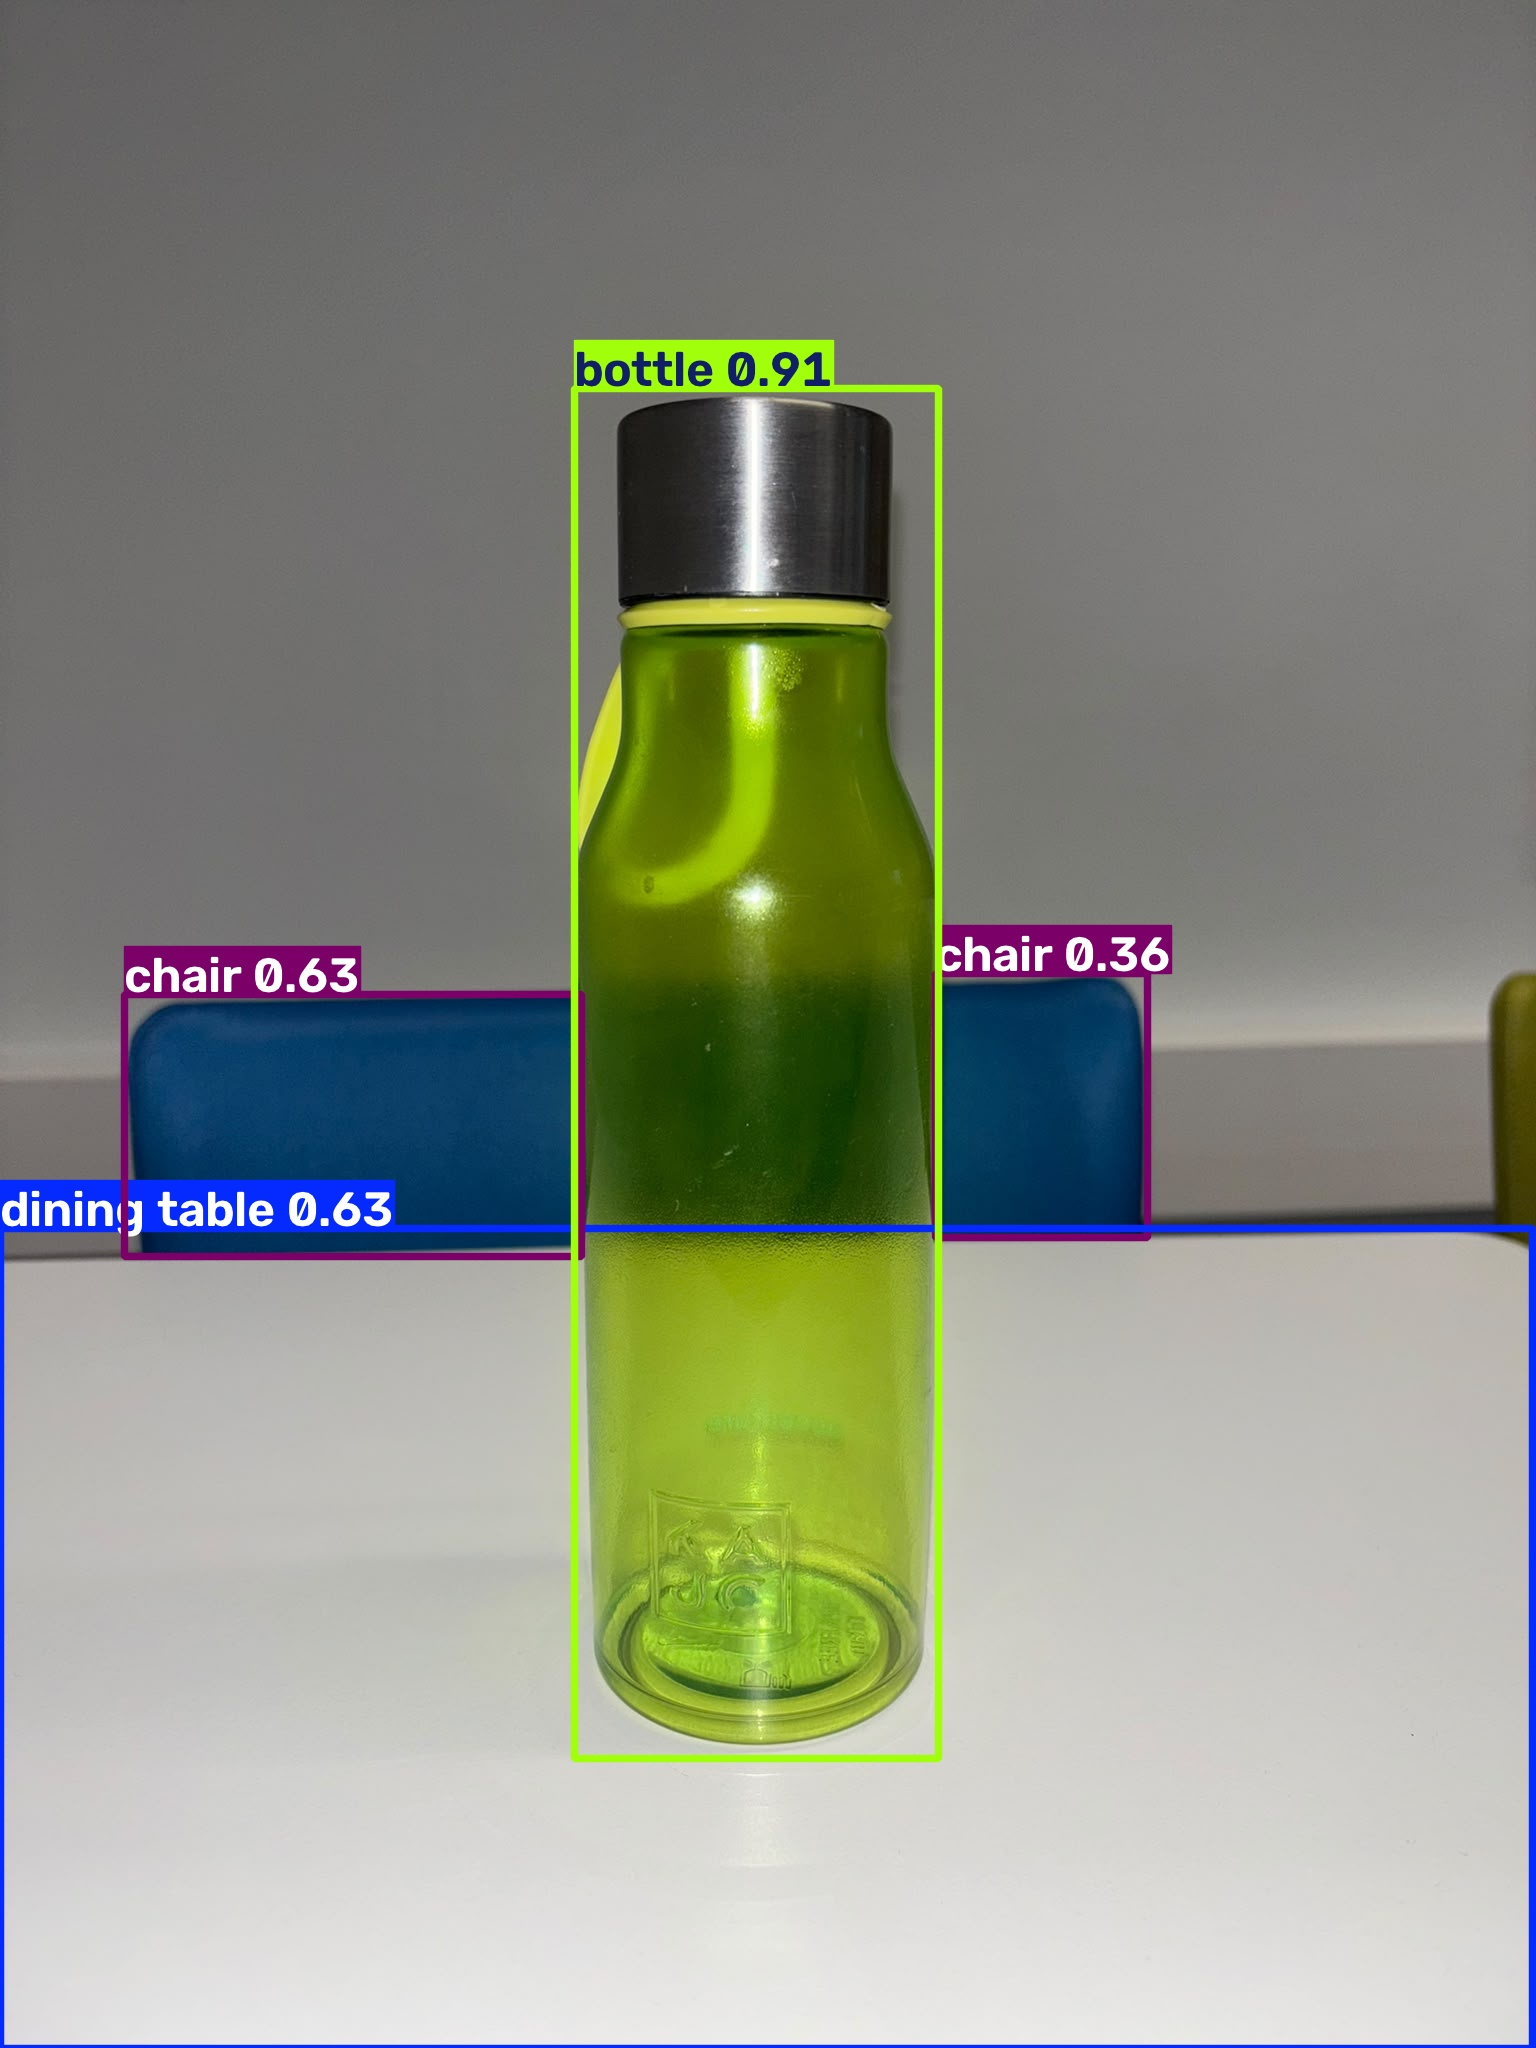
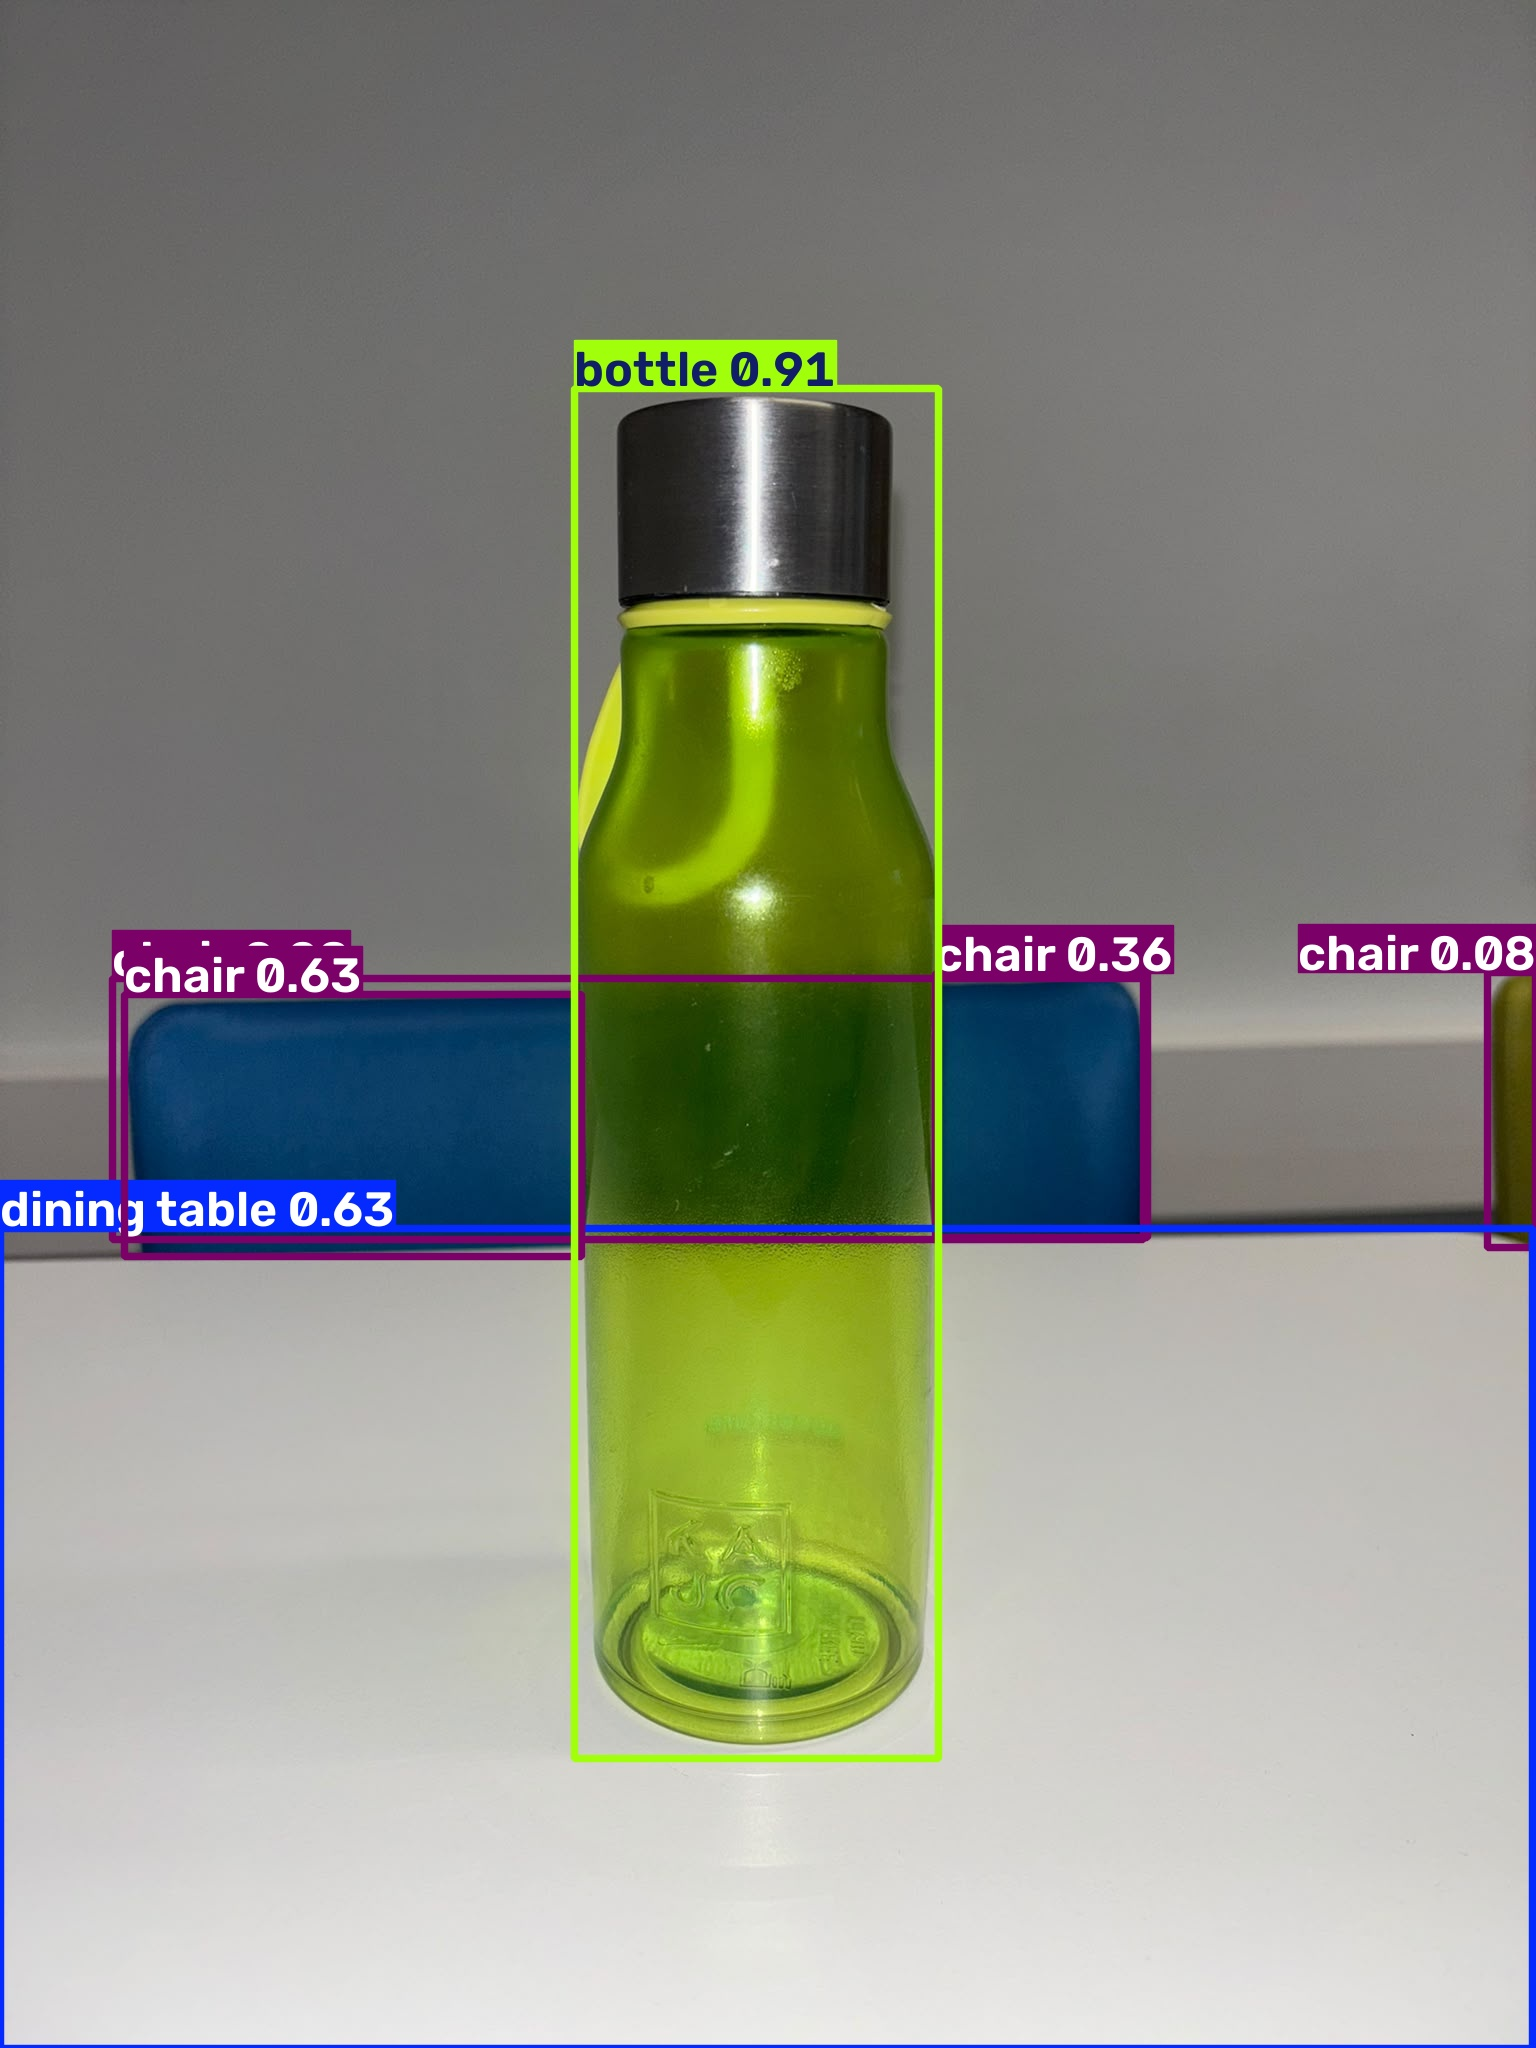
Brick 2: waste-class filter and pick_best() in detect.py, conf 0.3

diff --git a/src/detect.py b/src/detect.py
@@ -1,39 +1,82 @@
-"""Brick 1: run YOLO26n on one image and print what it finds.
+"""Object detection with YOLO26n.
 
-Usage:
-    python src/detect.py data/test/bottle.jpg
+The app calls detect(image, conf) and gets back the best waste item:
+    ("bottle", 0.91, (x1, y1, x2, y2))   or   None
+
+Test one image from the terminal:
+    python src/detect.py data/test/bottle_01.jpeg
 """
 import sys
 
+import torch
 from ultralytics import YOLO
 
 MODEL_NAME = "yolo26n.pt"  # nano model, pretrained on COCO (80 everyday classes)
+DEFAULT_CONF = 0.3         # chosen by the threshold experiment on 34 photos (see notes.md)
+MIN_CONF = 0.05            # keep almost everything; thresholds are applied later in pick_best()
 OUTPUT_PATH = "results/detect_output.jpg"
 
+# Use the Apple GPU (Metal Performance Shaders) when available, otherwise the CPU.
+DEVICE = "mps" if torch.backends.mps.is_available() else "cpu"
+
+# COCO classes that can be household waste. Everything else (person, chair, ...) is ignored.
+WASTE_CLASSES = {"bottle", "cup", "wine glass", "bowl", "banana", "apple", "orange", "book", "carrot", "spoon"}
+
+# Load the model once when this file is imported, not on every detect() call (~1 s each).
+model = YOLO(MODEL_NAME)
+
+
+def all_detections(image, save_path=None):
+    """Run YOLO once and return every detection as a list of (label, conf, box).
+
+    image can be a file path or a PIL image (Streamlit's camera gives us one of those).
+    """
+    result = model(image, conf=MIN_CONF, device=DEVICE, verbose=False)[0]
+
+    detections = []
+    for box in result.boxes:
+        label = result.names[int(box.cls)]       # class number -> name, e.g. 39 -> "bottle"
+        conf = float(box.conf)
+        x1, y1, x2, y2 = box.xyxy[0].tolist()    # box corners in pixels
+        detections.append((label, conf, (x1, y1, x2, y2)))
+
+    if save_path:
+        result.save(filename=save_path)          # image with all boxes drawn on it
+    return detections
+
+
+def pick_best(detections, conf):
+    """Keep waste classes at or above the threshold; return the most confident one, or None."""
+    waste_items = []
+    for label, score, box in detections:
+        if label in WASTE_CLASSES and score >= conf:
+            waste_items.append((label, score, box))
+
+    if not waste_items:
+        return None
+    # max() compares items by what key returns: here the confidence (position 1 in the tuple).
+    return max(waste_items, key=lambda item: item[1])
+
+
+def detect(image, conf=DEFAULT_CONF):
+    """What the app calls: one photo in, best waste item (or None) out."""
+    return pick_best(all_detections(image), conf)
+
+
 if __name__ == "__main__":
-    # The image path comes from the command line: sys.argv[0] is the script name,
-    # sys.argv[1] is the first argument the user typed.
     if len(sys.argv) < 2:
         print("Usage: python src/detect.py <image_path>")
         sys.exit(1)
-    image_path = sys.argv[1]
 
-    # Loads the weights. The first run downloads yolo26n.pt (~5 MB).
-    model = YOLO(MODEL_NAME)
+    detections = all_detections(sys.argv[1], save_path=OUTPUT_PATH)
 
-    # YOLO accepts a list of images, so it always returns a list of results.
-    # We gave it one image, so we take the first (and only) result.
-    result = model(image_path, verbose=False)[0]
+    print(f"All detections (conf >= {MIN_CONF}):")
+    for label, score, box in detections:
+        print(f"  {label} {score:.2f}")
 
-    if len(result.boxes) == 0:
-        print("Nothing detected.")
-
-    for box in result.boxes:
-        class_id = int(box.cls)            # a number 0-79
-        label = result.names[class_id]     # number -> name, e.g. 39 -> "bottle"
-        conf = float(box.conf)             # confidence 0-1
-        print(f"{label} {conf:.2f}")
-
-    # Draws all boxes + labels on the image and saves it.
-    result.save(filename=OUTPUT_PATH)
+    best = pick_best(detections, DEFAULT_CONF)
+    if best is None:
+        print(f"Best waste item at conf {DEFAULT_CONF}: none")
+    else:
+        print(f"Best waste item at conf {DEFAULT_CONF}: {best[0]} {best[1]:.2f}")
     print(f"Boxed image saved to {OUTPUT_PATH}")
